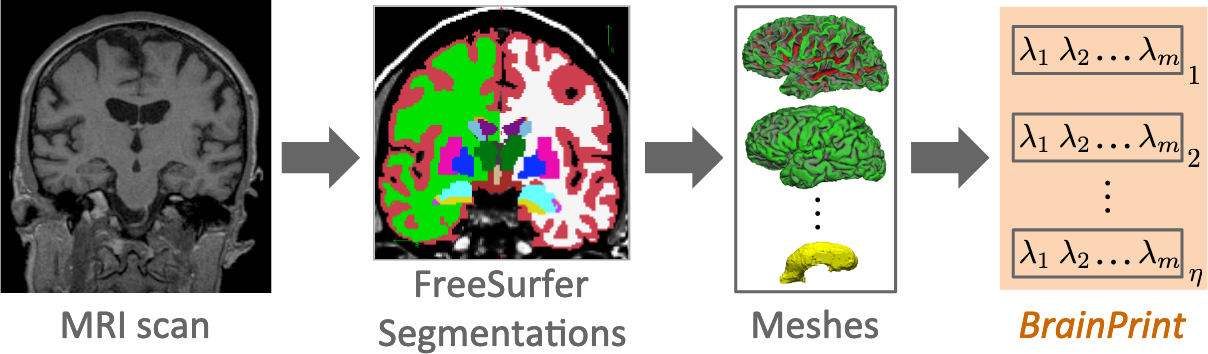
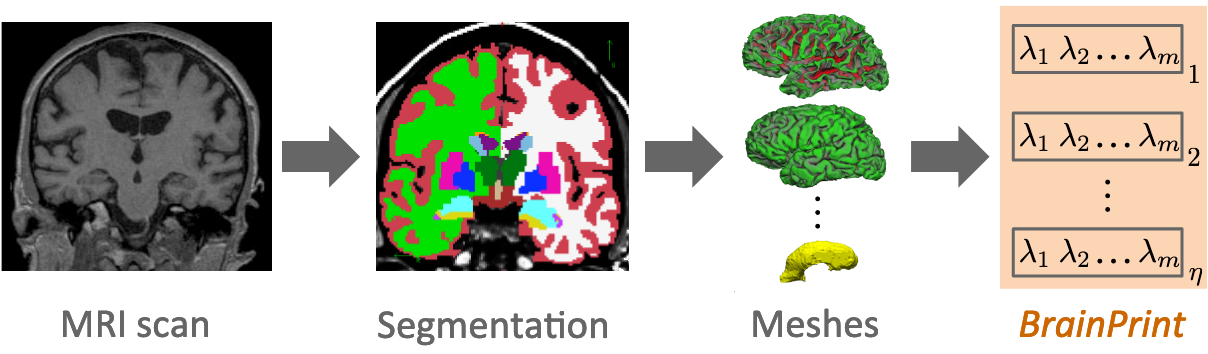
transparency in p3cnn image

diff --git a/_posts/2020-05-19-bvm-award.md b/_posts/2020-05-19-bvm-award.md
@@ -4,10 +4,13 @@ author: Martin Reuter
 layout: post
 group: news
 ---
-Congratulations to Leonie Henschel for the 1st place: Best Scientific Submission at the 
+
+Congratulations to Leonie Henschel for the 1st place: Best Scientific Submission at the
 2020 [BVM Workshop](https://www.bvm-workshop.org/).
-Our submission [Parameter Space CNN for Cortical Surface Segmentation](https://link.springer.com/chapter/10.1007/978-3-658-29267-6_49) and
-[YouTube presentation](https://www.youtube.com/watch?v=2KHYIrL7Lyo) has convinced the reviewers. 
+Our
+submission [Parameter Space CNN for Cortical Surface Segmentation](https://link.springer.com/chapter/10.1007/978-3-658-29267-6_49)
+and
+[YouTube presentation](https://www.youtube.com/watch?v=2KHYIrL7Lyo) has convinced the reviewers.
 
 In that work we investigate neural networks for spherical signals of the brain:
 
@@ -20,13 +23,13 @@ evaluate a 2D parameter space approach with view aggregation (p3CNN). We evaluat
 respect to accuracy and show that it outperforms the spherical CNN by a margin, increasing the
 average Dice similarity score for cortical segmentation to above 0.9.
 
-<img src="/static/img/research/spherical/segmentation_bvm.jpg" class="responsive" alt="Spherical-Segmentation" style="
-	display: block;
-	margin-left: auto;
-	margin-right: auto;
-  width: auto;
-  max-width: 600px;
-  height: auto;
+<img src="/static/img/research/spherical/segmentation_bvm.png" class="responsive" alt="Spherical-Segmentation" style="
+display: block;
+margin-left: auto;
+margin-right: auto;
+width: auto;
+max-width: 600px;
+height: auto;
 ">
 <div  style="text-align: justify; width:600px; margin:0 auto;">
 Figure: Comparison of a spherical CNN (ugscnn, middle) and our proposed view-aggregation on 2D spherical parameter

diff --git a/research/spherical.md b/research/spherical.md
@@ -20,13 +20,18 @@ layout: lab
 
 <div class="lab-wrap rp-page">
 
-Spherical coordinate systems have become a standard for analyzing human cortical neuroimaging data. Surface-based signals such as curvature, folding patterns, functional activations, or estimates of myelination define relevant cortical regions. Surface-based deep learning approaches such as spherical CNNs, however, primarily focus on classification and cannot yet achieve satisfactory accuracy in segmentation tasks.
+Spherical coordinate systems have become a standard for analyzing human cortical neuroimaging data. Surface-based
+signals such as curvature, folding patterns, functional activations, or estimates of myelination define relevant
+cortical regions. Surface-based deep learning approaches such as spherical CNNs, however, primarily focus on
+classification and cannot yet achieve satisfactory accuracy in segmentation tasks.
 
-To perform surface-based segmentation of the human cortex, we introduce and evaluate a 2D parameter space approach with view aggregation (**p3CNN**). We show that it outperforms the spherical CNN by a margin, increasing the average Dice similarity score for cortical segmentation to above 0.9.
+To perform surface-based segmentation of the human cortex, we introduce and evaluate a 2D parameter space approach with
+view aggregation (**p3CNN**). We show that it outperforms the spherical CNN by a margin, increasing the average Dice
+similarity score for cortical segmentation to above 0.9.
 
 {::nomarkdown}
 <figure class="rp-fig">
-<img src="/static/img/research/spherical/segmentation_bvm.jpg" alt="Spherical Segmentation">
+<img src="/static/img/research/spherical/segmentation_bvm.png" alt="Spherical Segmentation">
 <figcaption>Comparison of a spherical CNN (ugscnn, middle) and our proposed view-aggregation on 2D spherical parameter spaces (p3CNN, right) for cortical segmentation (bottom row).</figcaption>
 </figure>
 {:/nomarkdown}
@@ -38,6 +43,7 @@ To perform surface-based segmentation of the human cortex, we introduce and eval
 
 ## News
 
-**May 2020** — Congratulations to Leonie Henschel for 1st place: Best Scientific Submission at the [BVM Workshop 2020](https://www.bvm-workshop.org/).
+**May 2020** — Congratulations to Leonie Henschel for 1st place: Best Scientific Submission at
+the [BVM Workshop 2020](https://www.bvm-workshop.org/).
 
 </div>